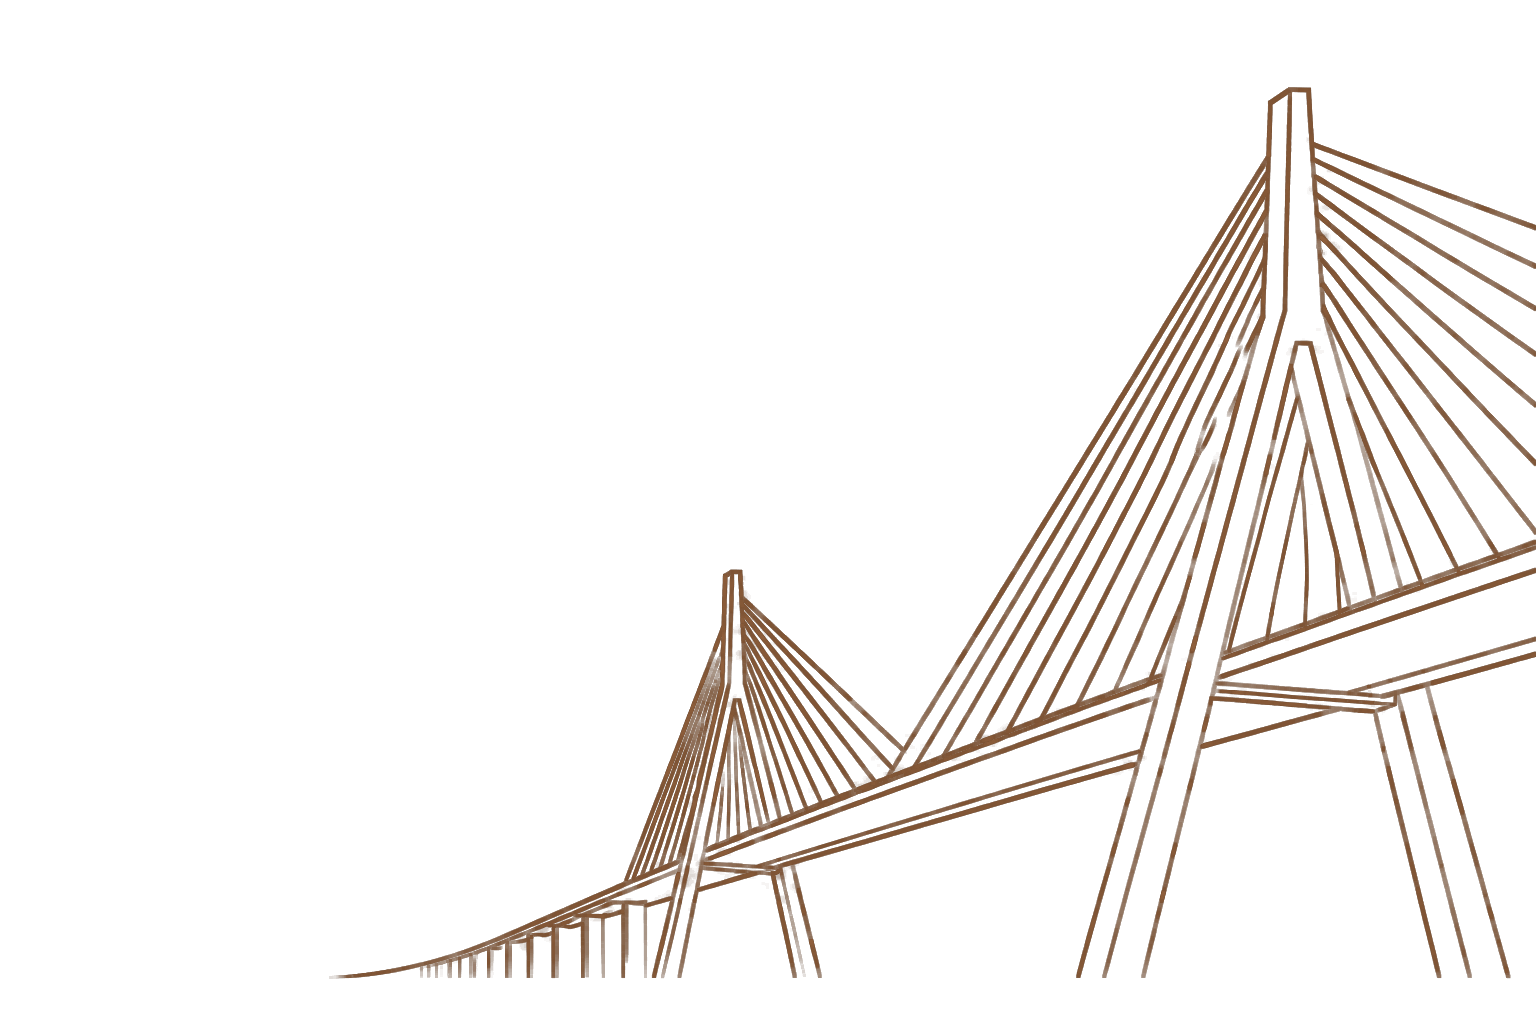
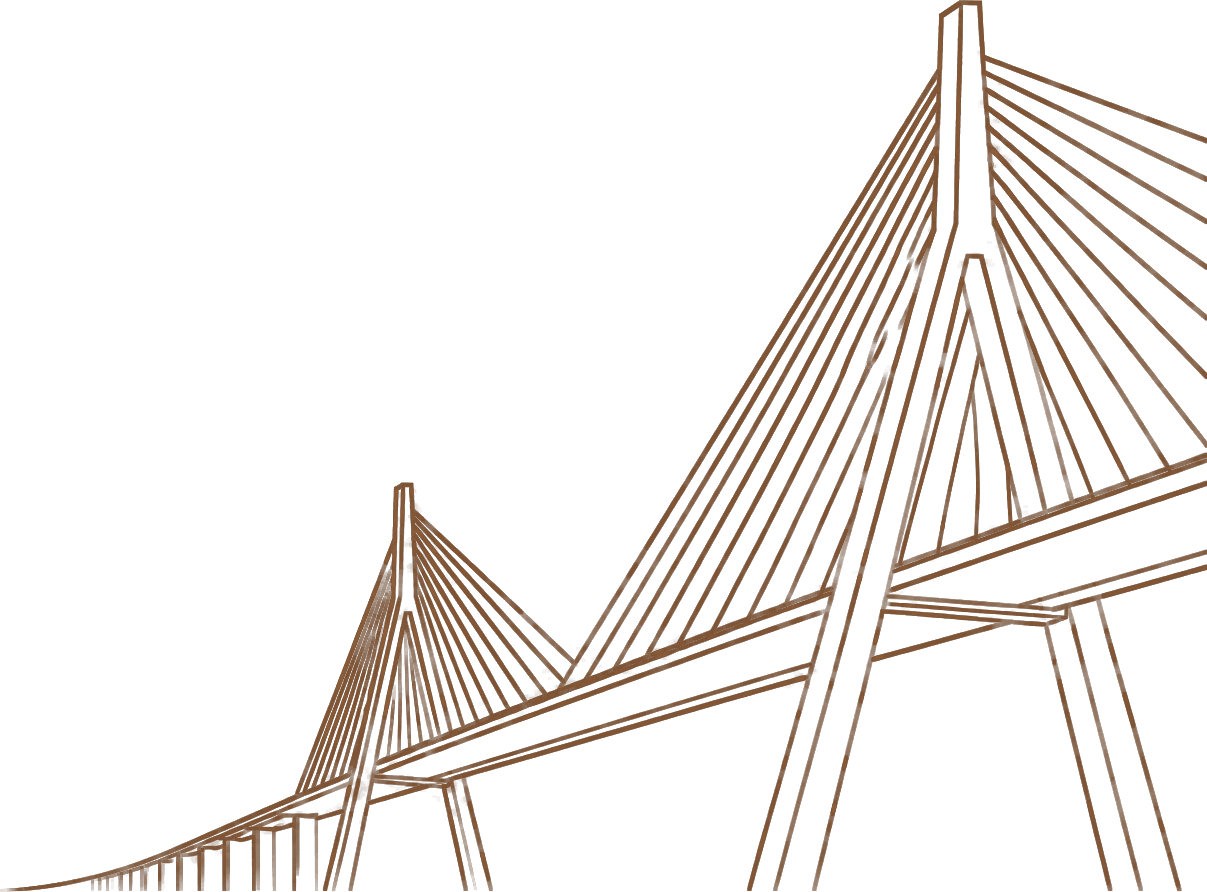
fix(assets): recadre le pont sur son contenu reel, remonte l'opacite des cards
Les PNG portaient ~4.5% de marge transparente en bas de canevas (46px
sur 1024, verifie pixel par pixel), invisible tant que le fond etait
opaque. Une fois la transparence en place, ancrer le decor en bas de
card (object-right-bottom) laissait un vrai espace vide sous le pont.
trim() les recadre au plus pres du contenu reel (1198x891 / 1207x892,
marge droite deja negligeable a 0.1%).

Opacite des cards remontee a 65% (0.85 trop marque, 0.50 pas assez) :
point d'equilibre trouve par allers-retours visuels directs.

Claude-Session: https://claude.ai/code/session_015LKPy2vJE84P6k7uGBBGR5

Changed region(s): [[0.0, 0.0, 1.0, 1.0]]

diff --git a/src/components/Cards/CardBridgeBackground.tsx b/src/components/Cards/CardBridgeBackground.tsx
@@ -36,7 +36,7 @@ export default function CardBridgeBackground() {
                     sizes="(max-width: 640px) 62vw, (max-width: 1024px) 31vw, 20vw"
                     // object-right-bottom : même point d'ancrage que le hero
                     // de la home.
-                    className="object-contain object-right-bottom opacity-50 transition-transform duration-700 group-hover:scale-105 dark:opacity-50 dark:saturate-[0.86] dark:contrast-110"
+                    className="object-contain object-right-bottom opacity-65 transition-transform duration-700 group-hover:scale-105 dark:opacity-65 dark:saturate-[0.86] dark:contrast-110"
                 />
             </div>
             <div
